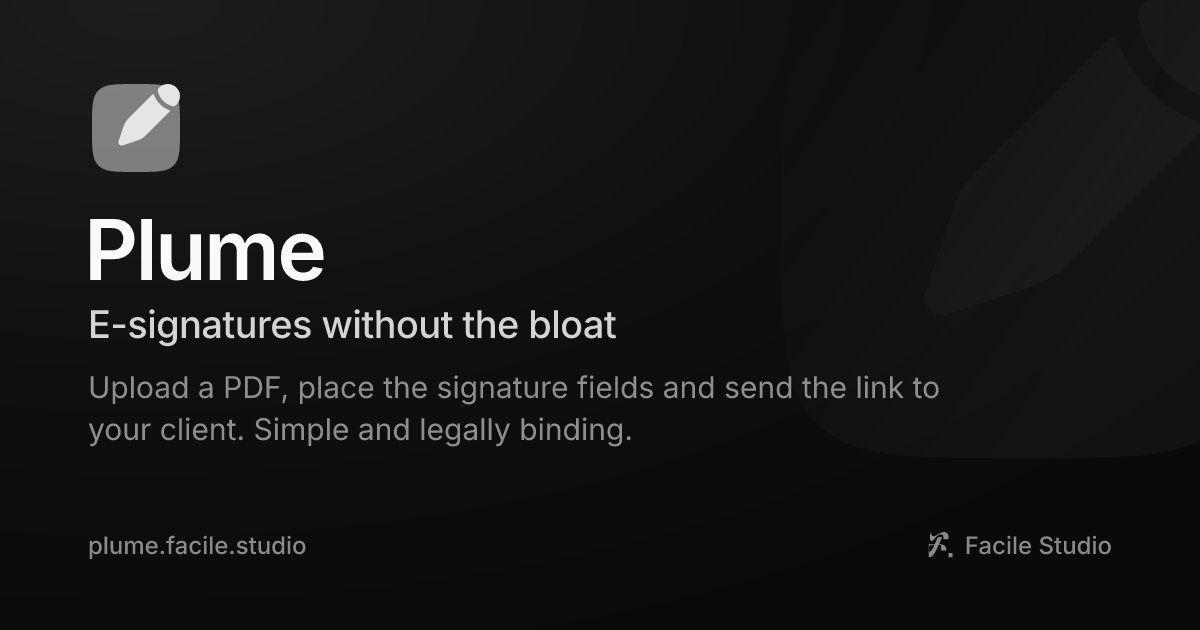
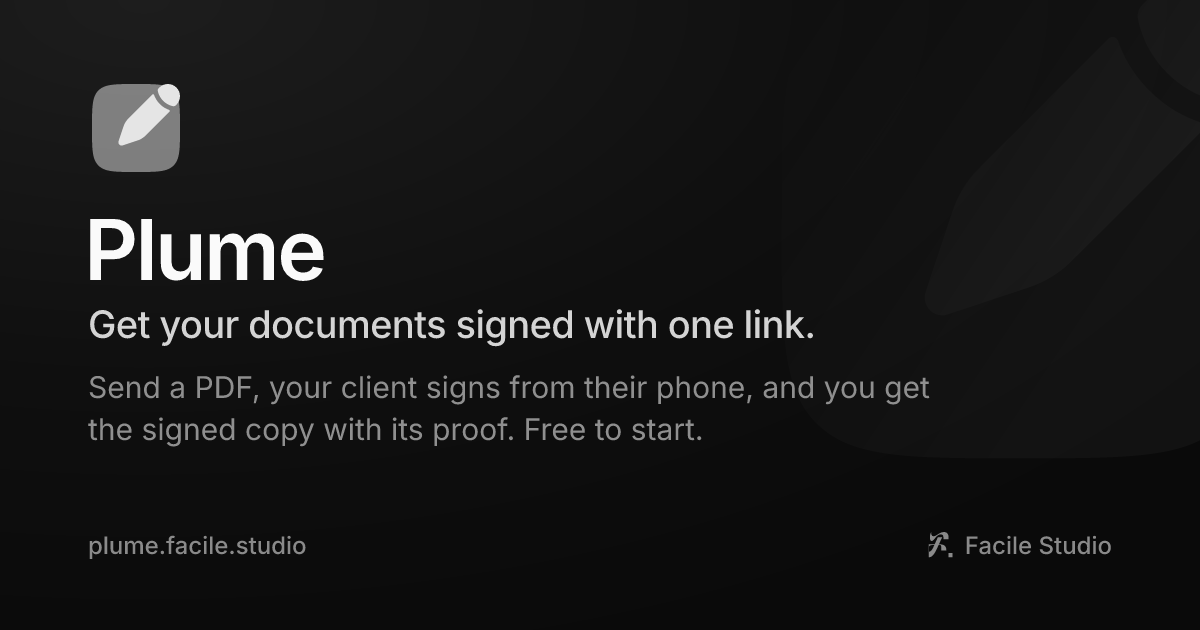
🐛 fix(client): add the suite self-hosting link
The developers block had no self-host button; it now opens the Suite
self-hosting page in the visitor's language. The plan note renders once
under the cards with muse v0.25.1. New title, meta, link preview and
manifest from the muse brand generator.

Changed region(s): [[0.0617, 0.573, 0.8017, 0.7238], [0.0617, 0.4825, 0.6783, 0.5429]]

diff --git a/apps/client/src/app.html b/apps/client/src/app.html
@@ -20,8 +20,8 @@
 			})();
 		</script>
 
-		<title>Plume · E-signatures without the bloat</title>
-		<meta name="description" content="Upload a PDF, place the signature fields and send the link to your client. Simple and legally binding." />
+		<title>Plume · Get your documents signed with one link.</title>
+		<meta name="description" content="Send a PDF, your client signs from their phone, and you get the signed copy with its proof. Free to start." />
 		<link rel="icon" href="/favicon.svg" type="image/svg+xml" />
 		<link rel="icon" href="/favicon.ico" sizes="48x48" />
 		<link rel="apple-touch-icon" href="/apple-touch-icon.png" />
@@ -32,15 +32,15 @@
 		<meta property="og:site_name" content="Facile" />
 		<meta property="og:locale" content="en_US" />
 		<meta property="og:url" content="https://plume.facile.studio/" />
-		<meta property="og:title" content="Plume · E-signatures without the bloat" />
-		<meta property="og:description" content="Upload a PDF, place the signature fields and send the link to your client. Simple and legally binding." />
+		<meta property="og:title" content="Plume · Get your documents signed with one link." />
+		<meta property="og:description" content="Send a PDF, your client signs from their phone, and you get the signed copy with its proof. Free to start." />
 		<meta property="og:image" content="https://plume.facile.studio/og-image.png" />
 		<meta property="og:image:width" content="1200" />
 		<meta property="og:image:height" content="630" />
-		<meta property="og:image:alt" content="Plume: E-signatures without the bloat" />
+		<meta property="og:image:alt" content="Plume: Get your documents signed with one link." />
 		<meta name="twitter:card" content="summary_large_image" />
-		<meta name="twitter:title" content="Plume · E-signatures without the bloat" />
-		<meta name="twitter:description" content="Upload a PDF, place the signature fields and send the link to your client. Simple and legally binding." />
+		<meta name="twitter:title" content="Plume · Get your documents signed with one link." />
+		<meta name="twitter:description" content="Send a PDF, your client signs from their phone, and you get the signed copy with its proof. Free to start." />
 		<meta name="twitter:image" content="https://plume.facile.studio/og-image.png" />
 
 		<meta name="color-scheme" content="light dark" />

diff --git a/apps/client/src/lib/i18n/messages/landing.ts b/apps/client/src/lib/i18n/messages/landing.ts
@@ -168,5 +168,11 @@ export const landing = {
 		'Le code de Plume, la référence de son API et son guide d’installation.',
 		'El código de Plume, la referencia de su API y su guía de instalación.',
 		'Der Code von Plume, die API-Referenz und die Installationsanleitung.'
+	],
+	'landing.dev.selfHostHref': [
+		'https://suite.facile.studio/en/auto-hebergement',
+		'https://suite.facile.studio/auto-hebergement',
+		'https://suite.facile.studio/es/auto-hebergement',
+		'https://suite.facile.studio/de/auto-hebergement'
 	]
 } satisfies Record<string, Row>;

diff --git a/apps/client/src/routes/+page.svelte b/apps/client/src/routes/+page.svelte
@@ -105,7 +105,7 @@
 			</section>
 
 			<div class="{width} pb-20">
-				<ForDevelopers rows={devRows} description={t('landing.dev.line')} />
+				<ForDevelopers rows={devRows} description={t('landing.dev.line')} selfHostHref={t('landing.dev.selfHostHref')} />
 			</div>
 		</main>
 
